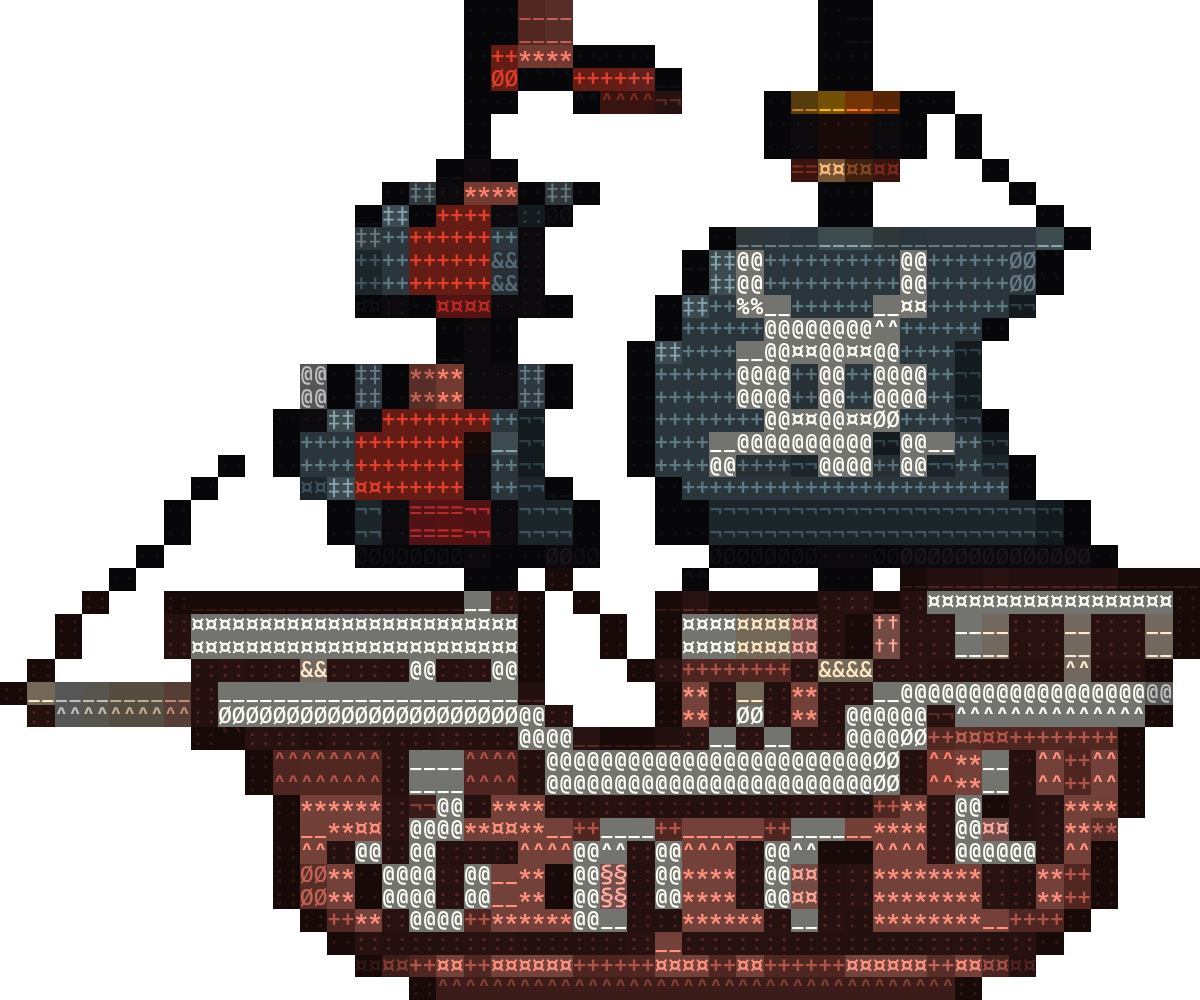
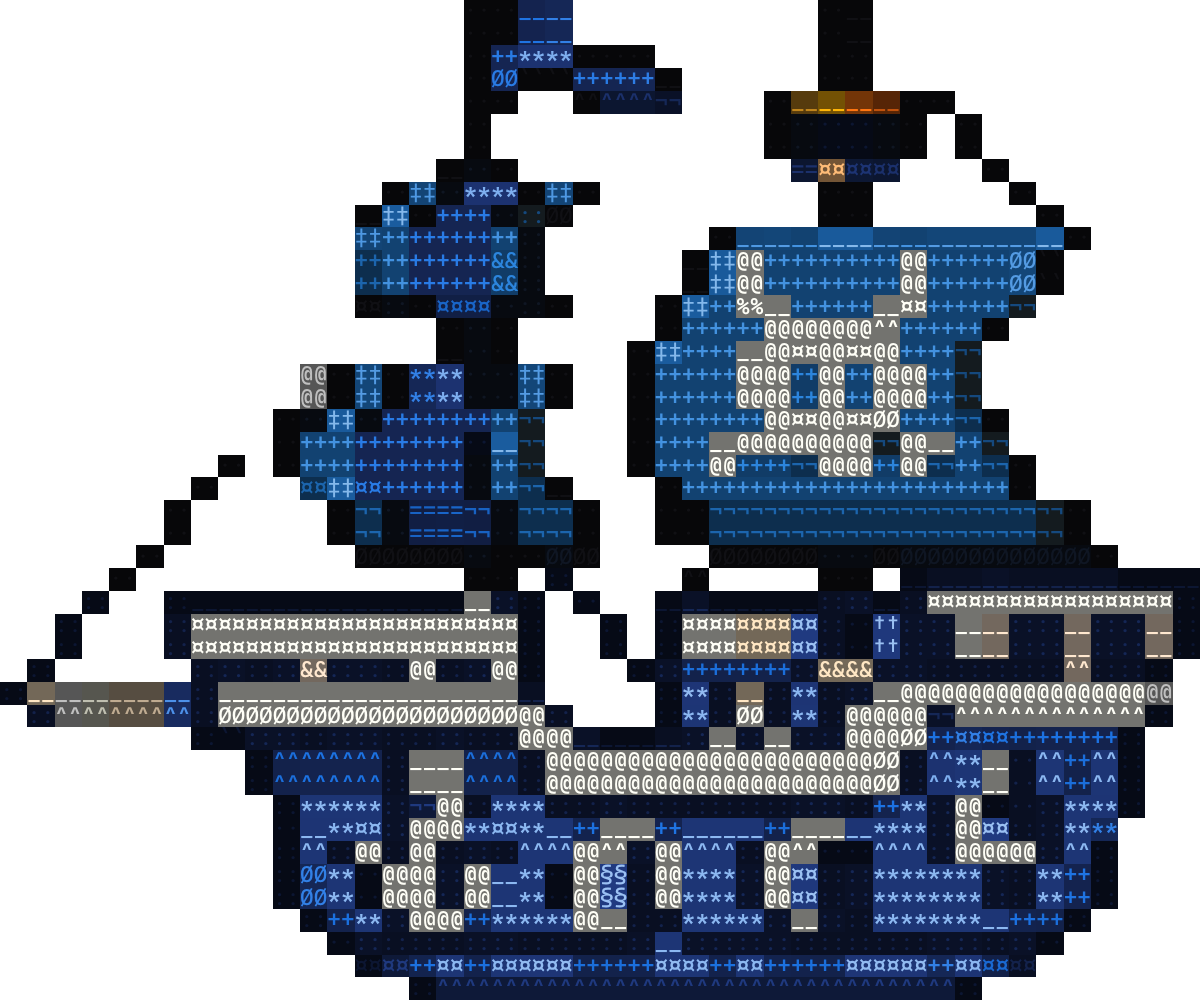
Design (crafting specs): variant A's pirate ship in blue (blue flag and sails, dark blue hull), same cells
Claude-Session: https://claude.ai/code/session_01SdonzUkZukdS6Hs9N1LRbm

diff --git a/design/crafting-specs/shared/craft/werte.md b/design/crafting-specs/shared/craft/werte.md
@@ -4,11 +4,11 @@ Prompt bei allen drei: **„a pirate ship“**. Gecraftet mit dem echten Rendere
 
 | Datei | Variante | Eingaben | Raster | Glyphen |
 |---|---|---|---|---|
-| `variante-a-clarify` | A · Pre-Clarification, finales Ergebnis | Größe **Large** · Farbe **Red** · Überraschung **Keep it classic** | 88 × 44 | 2056 |
+| `variante-a-clarify` | A · Pre-Clarification, finales Ergebnis | Größe **Large** · Farbe **Blue** · Überraschung **Keep it classic** | 88 × 44 | 2056 |
 | `variante-b-standard` | B · erstes Ergebnis | keine Präferenzen | 82 × 40 | 1700 |
 | `variante-b-wenige-glyphen` | B · nach „Tune future crafts“ | Detail **Less** · Rest übersprungen · gilt für **All crafts** | 54 × 27 | 766 |
 
-- **A:** Größer und mit rotem Rumpf, so wie es die Antworten auf Mitchys Fragen festlegen.
+- **A:** Größer und blau, so wie es die Antworten auf Mitchys Fragen festlegen: blaue Flagge und Segel, dunkelblauer Rumpf. Das Asset ist umgefärbt aus dem gecrafteten Ergebnis; Raster und Glyphen sind gleich geblieben.
 - **B · wenige Glyphen:** Gleiche Form wie das Standard-Ergebnis, aber mit rund 45 % der Glyphen. Die Zeichen sind dafür größer. Im Spiel bleibt das Schiff gleich groß.
 
 Dateien:
